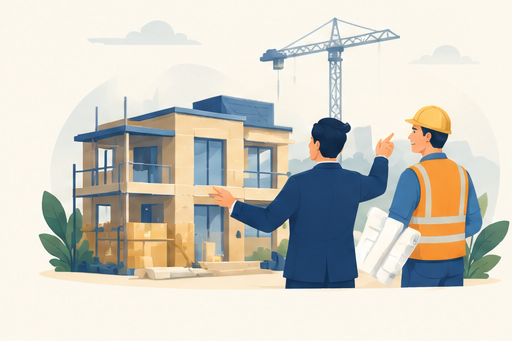
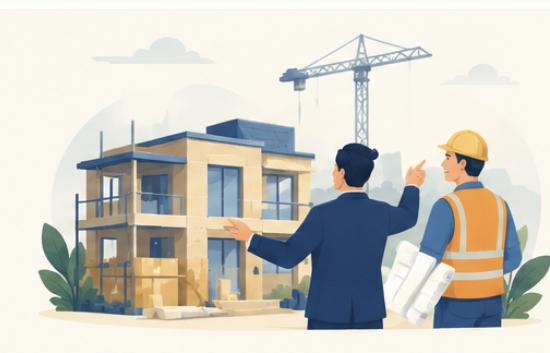
Fix case-study illustration order to match row-wise home/business/personal grouping
Re-cropped all 9 illustrations from a single consistent composite (row 1 =
Home & Property, row 2 = Business & Cash Flow, row 3 = Personal Goals) and
reassigned each case study's image to match, replacing the earlier mixed-up
mapping that pulled tiles from three different source images.

diff --git a/src/data/case-studies.ts b/src/data/case-studies.ts
@@ -60,7 +60,7 @@ export const CASE_STUDIES: CaseStudy[] = [
       "GCS reviewed 18 months of banking activity and client-billing records alongside the applicant's ITRs, and matched the profile with a lender whose underwriting norms specifically accommodate self-employed and professional income assessed on banking turnover rather than salary slips.",
     outcome:
       "₹2.4 crore home loan sanctioned by the matched lender, against the client's target property in Thane.",
-    image: "/brand/case-detail-key-handover.png",
+    image: "/brand/case-detail-goals-meeting.png",
   },
   {
     slug: "lap-balance-transfer-business-expansion",
@@ -79,7 +79,7 @@ export const CASE_STUDIES: CaseStudy[] = [
       "GCS reviewed the existing loan's outstanding principal, tenure and current rate, and identified a lender offering a materially better rate for a balance transfer plus an additional top-up sized to the client's business requirement — combining both into a single new facility.",
     outcome:
       "₹2.6 crore facility approved (existing ₹1.8 crore transferred + ₹80 lakh fresh top-up), with a lower monthly EMI than the client's original loan despite the additional funds.",
-    image: "/brand/case-detail-shop-growth.png",
+    image: "/brand/case-detail-business-handshake.png",
   },
   {
     slug: "home-loan-review-savings",
@@ -98,7 +98,7 @@ export const CASE_STUDIES: CaseStudy[] = [
       "GCS ran a loan review — outstanding principal, remaining tenure, current rate and applicable transfer costs — and compared this against balance-transfer offers from lenders in its network for the client's current profile.",
     outcome:
       "Loan transferred to a new lender at a lower rate, reducing the monthly EMI by roughly ₹4,200 for the remaining tenure, with no change to the loan amount or the property.",
-    image: "/brand/case-detail-savings-jar.png",
+    image: "/brand/case-detail-family-goals.png",
   },
 
   // ── Business & Cash Flow ───────────────────────────────
@@ -118,7 +118,7 @@ export const CASE_STUDIES: CaseStudy[] = [
     structuring:
       "GCS structured the application under the CGTMSE (Credit Guarantee Fund Trust for Micro and Small Enterprises) route, where a government-backed guarantee substitutes for physical collateral, and matched the client with a lender empanelled for CGTMSE-backed lending.",
     outcome: "₹62 lakh collateral-free business loan sanctioned under the CGTMSE scheme.",
-    image: "/brand/case-detail-advisor-checkmark.png",
+    image: "/brand/case-detail-shop-growth.png",
   },
   {
     slug: "business-loan-banking-strength",
@@ -137,7 +137,7 @@ export const CASE_STUDIES: CaseStudy[] = [
       "GCS built the case around 12 months of banking turnover and GST filings rather than ITR alone, and matched the profile with a lender whose credit policy weighs banking strength for trading businesses.",
     outcome:
       "₹55 lakh unsecured business loan sanctioned — nearly double what an ITR-only assessment would have supported.",
-    image: "/brand/case-detail-review-analysis.png",
+    image: "/brand/case-detail-construction.png",
   },
   {
     slug: "working-capital-seasonal-bridge",
@@ -156,7 +156,7 @@ export const CASE_STUDIES: CaseStudy[] = [
       "GCS structured a cash credit facility sized to the business's stock and receivables cycle, rather than a fixed-term loan that wouldn't flex with the seasonal pattern.",
     outcome:
       "₹68 lakh working capital limit sanctioned, drawn against as needed rather than disbursed as a lump sum.",
-    image: "/brand/case-detail-consult.png",
+    image: "/brand/case-detail-celebrate.png",
   },
 
   // ── Personal Goals ─────────────────────────────────────
@@ -177,7 +177,7 @@ export const CASE_STUDIES: CaseStudy[] = [
       "Given the client's clean profile, GCS routed the application directly to a lender known for minimal documentation and fast turnaround for salaried applicants with strong credit scores.",
     outcome:
       "₹24 lakh personal loan sanctioned and disbursed within a few working days of application.",
-    image: "/brand/case-detail-celebrate.png",
+    image: "/brand/case-detail-family-priorities.png",
   },
   {
     slug: "education-loan-co-applicant",
@@ -196,7 +196,7 @@ export const CASE_STUDIES: CaseStudy[] = [
       "GCS reviewed the combined household income and identified a lender willing to consider both parents as joint co-applicants, alongside the standard admission and cost documentation for the course.",
     outcome:
       "₹22 lakh education loan sanctioned, covering tuition and living costs for the course.",
-    image: "/brand/case-detail-construction.png",
+    image: "/brand/case-detail-savings-jar.png",
   },
   {
     slug: "new-car-loan-zero-down",
@@ -214,7 +214,7 @@ export const CASE_STUDIES: CaseStudy[] = [
     structuring:
       "GCS matched the client with a lender offering on-road funding — covering registration and insurance, not just the ex-showroom price — for well-qualified salaried applicants.",
     outcome: "100% on-road funding approved, with no down payment required at delivery.",
-    image: "/brand/case-detail-family-goals.png",
+    image: "/brand/case-detail-approved.png",
   },
 ];
 
